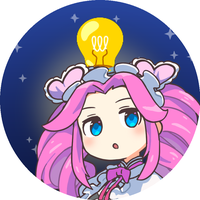
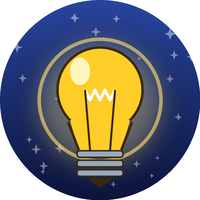
アイコンとバナーからキャラクターを外す（アイコンは電球の図形、バナーは文字のみ）
Claude-Session: https://claude.ai/code/session_01MzmbYW51uYHDEvUvLbV54E

diff --git a/tools/channel_art.py b/tools/channel_art.py
@@ -47,6 +47,33 @@ def sparkles(im, n, seed=1, box=None):
     im.alpha_composite(lay)
 
 
+def draw_bulb(S):
+    """電球を図形で描く（絵文字を拡大するとぼやけるため）。4倍の大きさで描いてから縮小し、ふちを滑らかに"""
+    k = 4
+    B = Image.new("RGBA", (S * k, S * k))
+    d = ImageDraw.Draw(B)
+    c, r = S * k / 2, 175 * k
+    cy = 360 * k
+    gold, dark = (255, 205, 40), (60, 40, 10)
+    d.ellipse((c - r, cy - r, c + r, cy + r), fill=gold, outline=dark, width=10 * k)
+    d.polygon([(c - 120 * k, cy + 120 * k), (c + 120 * k, cy + 120 * k), (c + 85 * k, 600 * k), (c - 85 * k, 600 * k)],
+              fill=gold)
+    d.line([(c - 128 * k, cy + 128 * k), (c - 85 * k, 600 * k)], fill=dark, width=10 * k)
+    d.line([(c + 128 * k, cy + 128 * k), (c + 85 * k, 600 * k)], fill=dark, width=10 * k)
+    d.ellipse((c - 120 * k, cy - 130 * k, c - 40 * k, cy - 20 * k), fill=(255, 245, 190))  # 光の反射
+    # フィラメント（ジグザグ）と支柱
+    pts = [(c - 60 * k + i * 20 * k, cy + (40 if i % 2 else 0) * k) for i in range(7)]
+    d.line(pts, fill=(255, 255, 255), width=12 * k, joint="curve")
+    d.line([(c - 60 * k, cy), (c - 40 * k, 600 * k)], fill=dark, width=8 * k)
+    d.line([(c + 60 * k, cy), (c + 40 * k, 600 * k)], fill=dark, width=8 * k)
+    # 口金
+    for i in range(3):
+        y = (600 + i * 38) * k
+        d.rounded_rectangle((c - 95 * k, y, c + 95 * k, y + 32 * k), 14 * k, fill=(150, 170, 190), outline=dark, width=6 * k)
+    d.polygon([(c - 50 * k, 714 * k), (c + 50 * k, 714 * k), (c, 750 * k)], fill=dark)
+    return B.resize((S, S), Image.LANCZOS)
+
+
 def icon(path):
     S = 800
     im = grad(S, S, (40, 70, 160), (12, 20, 60))
@@ -54,12 +81,11 @@ def icon(path):
     glow = Image.new("RGBA", (S, S))
     ImageDraw.Draw(glow).ellipse((120, 140, 680, 700), fill=(255, 230, 120, 90))
     im = Image.alpha_composite(im, glow.filter(ImageFilter.GaussianBlur(60)))
-    bulb = T.emoji_img("💡", 190)
-    im.alpha_composite(bulb, (S // 2 - bulb.width // 2, 70))
-    m = char("metan", "happy")
-    for c, x, w in ((m, 140, 680),):
-        c = c.resize((w, int(c.height * w / c.width)), Image.LANCZOS)
-        im.alpha_composite(c.crop((0, 0, w, min(c.height, S - 230))), (x, 230))
+    # キャラクターは使わず、「なるほど！」をあらわす電球だけを大きく置く（小さく表示されても形がわかる）
+    ring = Image.new("RGBA", (S, S))
+    ImageDraw.Draw(ring).ellipse((150, 150, 650, 650), outline=(255, 220, 110, 160), width=14)
+    im.alpha_composite(ring)
+    im.alpha_composite(draw_bulb(S))
     # 円形に切り抜いたときの見え方も保存（確認用）
     mask = Image.new("L", (S, S))
     ImageDraw.Draw(mask).ellipse((0, 0, S, S), fill=255)
@@ -82,21 +108,16 @@ def banner(path, l1, l2, tagline):
     sparkles(im, 90, 7)
     sx0, sy0 = (BW - 1546) // 2, (BH - 423) // 2  # スマホでも見える範囲
     glow = Image.new("RGBA", (BW, BH))
-    ImageDraw.Draw(glow).rounded_rectangle((sx0 + 100, sy0 + 10, sx0 + 1180, sy0 + 413), 80, fill=(255, 255, 255, 40))
+    ImageDraw.Draw(glow).rounded_rectangle((sx0 + 230, sy0 + 10, sx0 + 1316, sy0 + 413), 80, fill=(255, 255, 255, 40))
     im = Image.alpha_composite(im, glow.filter(ImageFilter.GaussianBlur(30)))
     d = ImageDraw.Draw(im)
-    cx = sx0 + 640  # 文字は左寄り、右にめたん
+    cx = BW / 2
     d.text((cx, sy0 + 90), l1, font=L.jp(72), fill=GREEN, anchor="mm", stroke_width=8, stroke_fill=L.NAVY)
     d.text((cx, sy0 + 200), l2, font=L.jp(118), fill=L.WHITE, anchor="mm", stroke_width=12, stroke_fill=L.NAVY)
     f = L.jp(36, True)
     tw = d.textlength(tagline, font=f)
     d.rounded_rectangle((cx - tw / 2 - 40, sy0 + 300, cx + tw / 2 + 40, sy0 + 370), 40, fill=L.GOLD)
     d.text((cx, sy0 + 335), tagline, font=f, fill=L.NAVY, anchor="mm")
-    m = char("metan", "explain")
-    for c, x in ((m, sx0 + 1546 - 330),):
-        c = c.resize((360, int(c.height * 360 / c.width)), Image.LANCZOS)
-        c = c.crop((0, 0, c.width, min(c.height, 423 + 40)))
-        im.alpha_composite(c, (int(x), sy0 - 20))
     im.convert("RGB").save(path)
     # スマホで見える範囲に枠を描いた確認用
     chk = im.copy()
